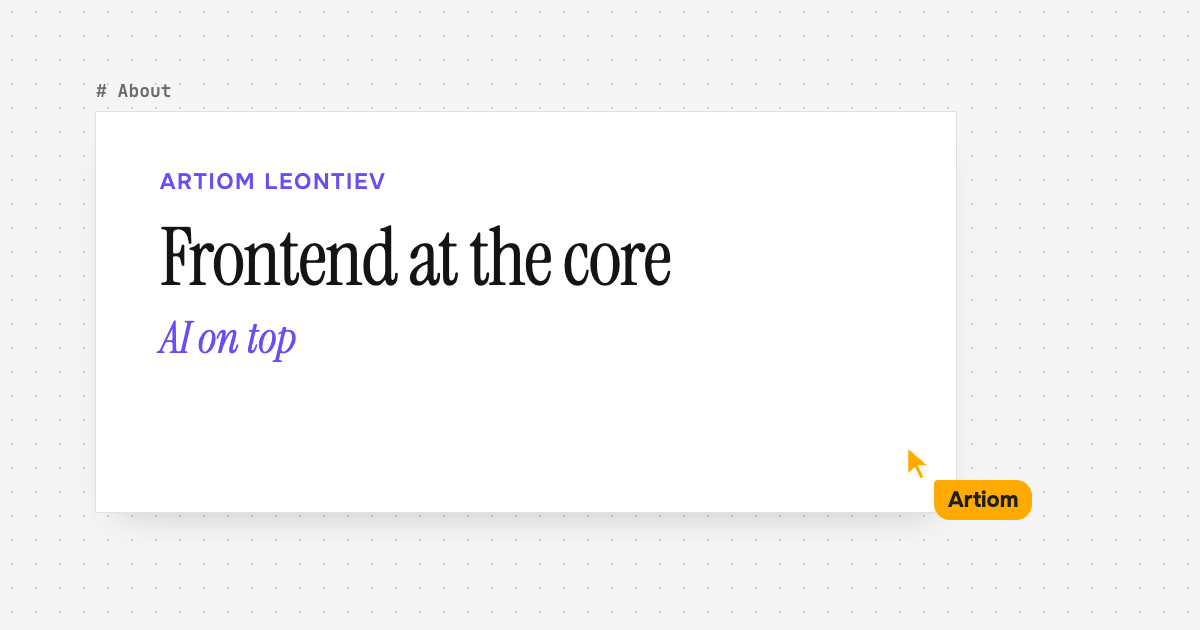
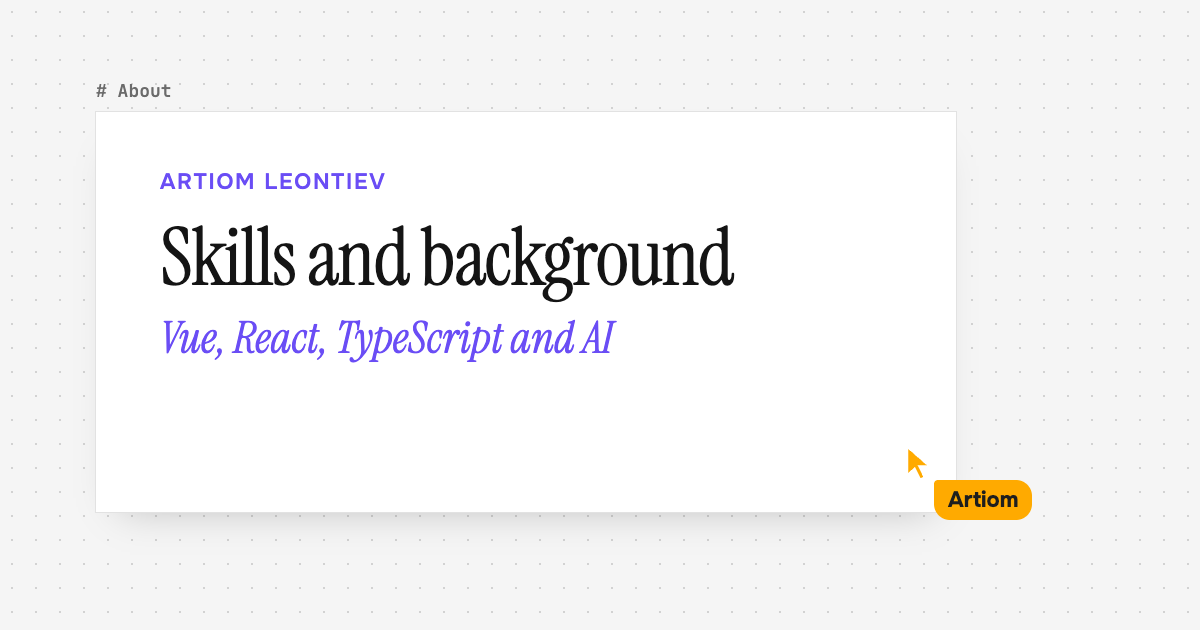
content: rewrite site copy in plain language
Drops slogan headings, filler and jargon lists, and stops the home intro
repeating the headline. The home intro, About bio and title, Experience and
Projects intros, Experience bullets, canvas comments and page descriptions
now say the same facts in plain sentences. Regenerates the About social
image and syncs the spec and plan.

Changed region(s): [[0.1233, 0.3619, 0.6167, 0.4825], [0.1233, 0.5127, 0.5242, 0.573]]

diff --git a/src/content/experience.ts b/src/content/experience.ts
@@ -13,10 +13,10 @@ export const roles: Role[] = [
         title: "AI products and internal AI tooling",
         years: "2025 – present",
         points: [
-          "Took an AI case-study generator to production, cutting case studies from days of manual writing to minutes. Used by Sales and Marketing. Built the React app and co-built the RAG service (Azure OpenAI).",
+          "Took an AI case-study generator to production. Sales and Marketing now get a case study in minutes instead of days. Built the React app and co-built the RAG service (Azure OpenAI).",
           "Built and self-hosted an MCP server that gives Claude Code and GitHub Copilot access to the company's agent-skill library. Load-tested it to 100 concurrent users at about 70 ms median latency.",
           "Wrote reusable Claude Code and Copilot agent skills for engineering teams, including a code-review skill that has to cite evidence for every finding.",
-          "Built the pull-request review for an AI-assisted project-delivery platform (changed files, side-by-side diffs, comment threads, approvals) and hardened its flow for accepting AI-drafted changes (React, TypeScript).",
+          "Built the pull-request review screens for an AI-assisted project-delivery platform: changed files, side-by-side diffs, comment threads and approvals (React, TypeScript).",
         ],
       },
       {
@@ -25,7 +25,7 @@ export const roles: Role[] = [
         years: "2025 – 2026",
         points: [
           "Designed a React 19 micro-frontend architecture (Module Federation) with a shared design system, role-based access and a typed API client, and built the core compliance workflows.",
-          "Introduced AI-assisted delivery to the team: Claude Code custom commands for end-to-end testing and code review, plus an agent-driven story and QA workflow (BMAD).",
+          "Got the team using AI day to day: Claude Code commands for end-to-end tests and code review, and an agent workflow (BMAD) for writing stories and QA.",
         ],
       },
       {
@@ -33,7 +33,7 @@ export const roles: Role[] = [
         title: "Frontend lead, occupational-health platform",
         years: "2023 – 2025",
         points: [
-          "Designed a Vue 3 + Vite micro-frontend architecture from the ground up, with a configurable dynamic-form engine. The platform passed a WCAG 2.1 AA accessibility audit.",
+          "Designed the Vue 3 and Vite micro-frontend architecture, including an engine that builds forms from configuration. The platform passed a WCAG 2.1 AA accessibility audit.",
           "Managed and mentored 4 developers, and ran code reviews, internal trainings and hiring interviews.",
         ],
       },
@@ -49,9 +49,9 @@ export const roles: Role[] = [
     engagements: [],
     points: [
       "Rebuilt a fertility-clinic platform's client app in Vue 3 and automated its kit-processing and shipping workflows, cutting manual paperwork by 50% and improving client retention by 20%.",
-      "Built a multi-site Nuxt job-board builder with per-site DNS mapping, whose server-side rendering and SEO work raised the SEO score by 30%.",
-      "Led a 2-developer team building a copywriting tool that generated articles through content-generation APIs, with Stripe payments.",
-      "Delivered web applications (Vue.js, Laravel, MySQL) for corporate clients in the USA, UK and the Netherlands.",
+      "Built a Nuxt job-board builder that runs many sites, each on its own domain. Server-side rendering and SEO work raised its SEO score by 30%.",
+      "Led a team of 2 building a tool that writes articles automatically, with paid plans through Stripe.",
+      "Built web apps in Vue.js, Laravel and MySQL for companies in the USA, the UK and the Netherlands.",
     ],
   },
 ];

diff --git a/src/seo/routes.ts b/src/seo/routes.ts
@@ -17,7 +17,7 @@ export const ROUTES: RouteMeta[] = [
     id: "home",
     path: "/",
     title: "Artiom Leontiev · Senior Frontend Engineer, AI-powered apps",
-    description: "Senior frontend engineer in Cluj-Napoca building AI-powered web apps with React and Vue: LLM integrations, RAG, agents and MCP servers.",
+    description: "Senior frontend engineer in Cluj-Napoca, Romania. I build web apps in React and Vue, and since 2025 mostly AI products with LLMs, RAG, agents and MCP servers.",
     image: "/og/home.png",
     imageAlt: "Artiom Leontiev, Senior Frontend Engineer, AI-powered applications",
   },
@@ -25,7 +25,7 @@ export const ROUTES: RouteMeta[] = [
     id: "projects",
     path: "/projects",
     title: "Projects · Artiom Leontiev",
-    description: "Side projects including Klipsy and Council, plus client work in AI tooling, micro-frontends and accessible healthcare platforms.",
+    description: "Side projects Klipsy, Council and AskManu, plus client work on AI tools and on compliance and healthcare platforms.",
     image: "/og/projects.png",
     imageAlt: "Projects by Artiom Leontiev",
   },
@@ -33,7 +33,7 @@ export const ROUTES: RouteMeta[] = [
     id: "experience",
     path: "/experience",
     title: "Experience · Artiom Leontiev",
-    description: "7+ years at Amdaris and BinarCode: AI products, frontend leadership on micro-frontend platforms, and full-stack Vue and Laravel work.",
+    description: "Senior frontend engineer at Amdaris since 2022, full-stack at BinarCode before that. Frontend lead on two large platforms, and AI products since 2025.",
     image: "/og/experience.png",
     imageAlt: "Experience of Artiom Leontiev",
   },
@@ -41,7 +41,7 @@ export const ROUTES: RouteMeta[] = [
     id: "about",
     path: "/about",
     title: "About · Artiom Leontiev",
-    description: "Skills, certifications and background: Vue, React, TypeScript, AI engineering with Claude and OpenAI, accessibility and web performance.",
+    description: "Skills, certifications and education: Vue, React and TypeScript, AI work with Claude, OpenAI and Gemini, accessibility and web performance.",
     image: "/og/about.png",
     imageAlt: "About Artiom Leontiev",
   },
@@ -49,7 +49,7 @@ export const ROUTES: RouteMeta[] = [
     id: "contact",
     path: "/contact",
     title: "Contact · Artiom Leontiev",
-    description: "Get in touch with Artiom Leontiev about frontend architecture, React and Vue work, or AI product engineering. Based in Cluj-Napoca, Romania.",
+    description: "Email Artiom Leontiev about a frontend or AI role, or a React or Vue project. Based in Cluj-Napoca, Romania.",
     image: "/og/contact.png",
     imageAlt: "Contact Artiom Leontiev",
   },

diff --git a/src/content/profile.ts b/src/content/profile.ts
@@ -8,11 +8,11 @@ export const profile = {
   linkedin: "https://www.linkedin.com/in/artiomleo/",
   cvUrl: "https://drive.google.com/file/d/1c296pwoO0QAl2fmsOOMBiI6i6DjtpRws/view?usp=sharing",
   headline: { lead: "builds web products,", accent: "and the AI behind them." },
-  lede: "7+ years of Vue and React, and since 2025 the AI layer behind them: LLM integrations, RAG, agents and MCP servers. Based in Cluj-Napoca, Romania.",
-  currently: ["AI products and internal AI tooling at Amdaris", "Building Klipsy on the side"],
+  lede: "I've built web apps in Vue and React for 7+ years. Since 2025 most of my work has been AI products: LLM features, RAG search, agents, and MCP servers for Claude and ChatGPT. Based in Cluj-Napoca, Romania.",
+  currently: ["Building AI products and internal tools at Amdaris", "Building Klipsy, an AI social media app, on the side"],
   bio: [
-    "I'm a senior frontend engineer with 7+ years of building web products in Vue and React. Since 2025 I've focused on AI-powered applications: LLM integrations, RAG, AI agents, and MCP servers for Claude and ChatGPT.",
-    "I lead frontend architecture, including micro-frontends, design systems and accessibility, and I work AI-first every day with Claude Code and agent workflows. Frontend is my core, and I build the AI and API layers a product needs, with working knowledge of backend frameworks.",
+    "I'm a senior frontend engineer in Cluj-Napoca. I started as a full-stack developer at BinarCode, building Vue and Laravel apps for clients, then moved to Amdaris, where I've led frontend teams on large healthcare and compliance platforms.",
+    "Since 2025 I've mostly built AI products: a case-study generator, an MCP server for coding agents, and, in my own time, Klipsy and Council. I use Claude Code every day, and I'm comfortable working in the backend when a feature needs it.",
   ],
   portrait: {
     avif: "/images/portrait.avif",

diff --git a/src/content/annotations.ts b/src/content/annotations.ts
@@ -6,11 +6,11 @@ export type FrameNote = { sticky?: string; comment?: { target: string; text: str
 export const FRAME_NOTES: Record<FrameId, FrameNote> = {
   home: {
     sticky: "Case studies: days of writing, down to minutes",
-    comment: { target: "hero-lede", text: "Since 2025: RAG, agents and MCP servers in production" },
+    comment: { target: "hero-lede", text: "RAG, agents and MCP servers, shipped since 2025" },
   },
   projects: {
     sticky: "Council ships in 8 languages",
-    comment: { target: "project-klipsy", text: "Per-model cost tracking fixed a 37× overstatement" },
+    comment: { target: "project-klipsy", text: "Cost tracking found cheap-model costs overstated 37×" },
   },
   experience: {
     sticky: "Mentored 4 developers",

diff --git a/src/content/projects.ts b/src/content/projects.ts
@@ -7,7 +7,7 @@ export const sideProjects: SideProject[] = [
     tagline: "AI social content studio",
     years: "2026 – present",
     role: "Lead full-stack engineer",
-    summary: "Klipsy turns a brand's documents into a steady stream of social content: it writes text posts, designs image posts and makes faceless videos, then publishes them on a schedule.",
+    summary: "Klipsy makes social media content from a brand's documents: text posts, image posts and faceless videos, published on a schedule.",
     points: [
       "Creates posts for each platform in the brand's own voice.",
       "Schedules and publishes to TikTok, YouTube, Instagram, X and more from one calendar.",

diff --git a/scripts/og/og.html b/scripts/og/og.html
@@ -13,7 +13,7 @@
         home: ["Home", "Senior Frontend Engineer", "AI-powered applications"],
         projects: ["Projects", "Things I've built", "Klipsy, Council and client work"],
         experience: ["Experience", "Where I've worked", "Vue, React and AI products"],
-        about: ["About", "Frontend at the core", "AI on top"],
+        about: ["About", "Skills and background", "Vue, React, TypeScript and AI"],
         contact: ["Contact", "Let's talk", "contact@artiomleo.com"],
       };
       const id = new URLSearchParams(location.search).get("frame") ?? "home";

diff --git a/src/frames/Projects.tsx b/src/frames/Projects.tsx
@@ -12,7 +12,7 @@ export function Projects({ primary }: { primary: boolean }) {
         <p className="eyebrow">Projects</p>
         <FrameTitle>Things I've built</FrameTitle>
         <p className="frame-lede">
-          Side projects I own end to end, and client work I led or built. Client work is described without names.
+          Side projects first, then client work, which I describe without client names.
         </p>
       </header>
       <section className="projects-group" aria-labelledby="side-projects-title">

diff --git a/src/frames/Experience.tsx b/src/frames/Experience.tsx
@@ -9,7 +9,7 @@ export function Experience({ primary }: { primary: boolean }) {
         <p className="eyebrow">Experience</p>
         <FrameTitle>Where I've worked</FrameTitle>
         <p className="frame-lede">
-          Frontend architecture and team leadership on micro-frontend platforms, and since 2025, AI products.
+          I've led frontend teams on large Vue and React platforms, and since 2025 I've mostly built AI products.
         </p>
       </header>
       <ol className="roles" role="list">

diff --git a/src/frames/About.tsx b/src/frames/About.tsx
@@ -10,7 +10,7 @@ export function About({ primary }: { primary: boolean }) {
     <Frame id="about" primary={primary}>
       <header className="frame-head">
         <p className="eyebrow">About</p>
-        <FrameTitle>Frontend at the core, AI on top</FrameTitle>
+        <FrameTitle>Skills and background</FrameTitle>
       </header>
       <div className="about-intro">
         <picture className="about-portrait">

diff --git a/docs/superpowers/plans/2026-10-23-canvas-redesign.md b/docs/superpowers/plans/2026-10-23-canvas-redesign.md
@@ -422,11 +422,11 @@ export const profile = {
   linkedin: "https://www.linkedin.com/in/artiomleo/",
   cvUrl: "https://drive.google.com/file/d/1c296pwoO0QAl2fmsOOMBiI6i6DjtpRws/view?usp=sharing",
   headline: { lead: "builds web products,", accent: "and the AI behind them." },
-  lede: "7+ years of Vue and React, and since 2025 the AI layer behind them: LLM integrations, RAG, agents and MCP servers. Based in Cluj-Napoca, Romania.",
-  currently: ["AI products and internal AI tooling at Amdaris", "Building Klipsy on the side"],
+  lede: "I've built web apps in Vue and React for 7+ years. Since 2025 most of my work has been AI products: LLM features, RAG search, agents, and MCP servers for Claude and ChatGPT. Based in Cluj-Napoca, Romania.",
+  currently: ["Building AI products and internal tools at Amdaris", "Building Klipsy, an AI social media app, on the side"],
   bio: [
-    "I'm a senior frontend engineer with 7+ years of building web products in Vue and React. Since 2025 I've focused on AI-powered applications: LLM integrations, RAG, AI agents, and MCP servers for Claude and ChatGPT.",
-    "I lead frontend architecture, including micro-frontends, design systems and accessibility, and I work AI-first every day with Claude Code and agent workflows. Frontend is my core, and I build the AI and API layers a product needs, with working knowledge of backend frameworks.",
+    "I'm a senior frontend engineer in Cluj-Napoca. I started as a full-stack developer at BinarCode, building Vue and Laravel apps for clients, then moved to Amdaris, where I've led frontend teams on large healthcare and compliance platforms.",
+    "Since 2025 I've mostly built AI products: a case-study generator, an MCP server for coding agents, and, in my own time, Klipsy and Council. I use Claude Code every day, and I'm comfortable working in the backend when a feature needs it.",
   ],
   portrait: {
     avif: "/images/portrait.avif",
@@ -456,10 +456,10 @@ export const roles: Role[] = [
         title: "AI products and internal AI tooling",
         years: "2025 – present",
         points: [
-          "Took an AI case-study generator to production, cutting case studies from days of manual writing to minutes. Used by Sales and Marketing. Built the React app and co-built the RAG service (Azure OpenAI).",
+          "Took an AI case-study generator to production. Sales and Marketing now get a case study in minutes instead of days. Built the React app and co-built the RAG service (Azure OpenAI).",
           "Built and self-hosted an MCP server that gives Claude Code and GitHub Copilot access to the company's agent-skill library. Load-tested it to 100 concurrent users at about 70 ms median latency.",
           "Wrote reusable Claude Code and Copilot agent skills for engineering teams, including a code-review skill that has to cite evidence for every finding.",
-          "Built the pull-request review for an AI-assisted project-delivery platform (changed files, side-by-side diffs, comment threads, approvals) and hardened its flow for accepting AI-drafted changes (React, TypeScript).",
+          "Built the pull-request review screens for an AI-assisted project-delivery platform: changed files, side-by-side diffs, comment threads and approvals (React, TypeScript).",
         ],
       },
       {
@@ -468,7 +468,7 @@ export const roles: Role[] = [
         years: "2025 – 2026",
         points: [
           "Designed a React 19 micro-frontend architecture (Module Federation) with a shared design system, role-based access and a typed API client, and built the core compliance workflows.",
-          "Introduced AI-assisted delivery to the team: Claude Code custom commands for end-to-end testing and code review, plus an agent-driven story and QA workflow (BMAD).",
+          "Got the team using AI day to day: Claude Code commands for end-to-end tests and code review, and an agent workflow (BMAD) for writing stories and QA.",
         ],
       },
       {
@@ -476,7 +476,7 @@ export const roles: Role[] = [
         title: "Frontend lead, occupational-health platform",
         years: "2023 – 2025",
         points: [
-          "Designed a Vue 3 + Vite micro-frontend architecture from the ground up, with a configurable dynamic-form engine. The platform passed a WCAG 2.1 AA accessibility audit.",
+          "Designed the Vue 3 and Vite micro-frontend architecture, including an engine that builds forms from configuration. The platform passed a WCAG 2.1 AA accessibility audit.",
           "Managed and mentored 4 developers, and ran code reviews, internal trainings and hiring interviews.",
         ],
       },
@@ -492,9 +492,9 @@ export const roles: Role[] = [
     engagements: [],
     points: [
       "Rebuilt a fertility-clinic platform's client app in Vue 3 and automated its kit-processing and shipping workflows, cutting manual paperwork by 50% and improving client retention by 20%.",
-      "Built a multi-site Nuxt job-board builder with per-site DNS mapping, whose server-side rendering and SEO work raised the SEO score by 30%.",
-      "Led a 2-developer team building a copywriting tool that generated articles through content-generation APIs, with Stripe payments.",
-      "Delivered web applications (Vue.js, Laravel, MySQL) for corporate clients in the USA, UK and the Netherlands.",
+      "Built a Nuxt job-board builder that runs many sites, each on its own domain. Server-side rendering and SEO work raised its SEO score by 30%.",
+      "Led a team of 2 building a tool that writes articles automatically, with paid plans through Stripe.",
+      "Built web apps in Vue.js, Laravel and MySQL for companies in the USA, the UK and the Netherlands.",
     ],
   },
 ];
@@ -562,7 +562,7 @@ export const sideProjects: SideProject[] = [
     tagline: "AI social content studio",
     years: "2026 – present",
     role: "Lead full-stack engineer",
-    summary: "Klipsy turns a brand's documents into a steady stream of social content: it writes text posts, designs image posts and makes faceless videos, then publishes them on a schedule.",
+    summary: "Klipsy makes social media content from a brand's documents: text posts, image posts and faceless videos, published on a schedule.",
     points: [
       "Creates posts for each platform in the brand's own voice.",
       "Schedules and publishes to TikTok, YouTube, Instagram, X and more from one calendar.",
@@ -790,11 +790,11 @@ export type FrameNote = { sticky?: string; comment?: { target: string; text: str
 export const FRAME_NOTES: Record<FrameId, FrameNote> = {
   home: {
     sticky: "Case studies: days of writing, down to minutes",
-    comment: { target: "hero-lede", text: "Since 2025: RAG, agents and MCP servers in production" },
+    comment: { target: "hero-lede", text: "RAG, agents and MCP servers, shipped since 2025" },
   },
   projects: {
     sticky: "Council ships in 8 languages",
-    comment: { target: "project-klipsy", text: "Per-model cost tracking fixed a 37× overstatement" },
+    comment: { target: "project-klipsy", text: "Cost tracking found cheap-model costs overstated 37×" },
   },
   experience: {
     sticky: "Mentored 4 developers",
@@ -1834,7 +1834,7 @@ export function Projects({ primary }: { primary: boolean }) {
         <p className="eyebrow">Projects</p>
         <FrameTitle>Things I've built</FrameTitle>
         <p className="frame-lede">
-          Side projects I own end to end, and client work I led or built. Client work is described without names.
+          Side projects first, then client work, which I describe without client names.
         </p>
       </header>
       <section className="projects-group" aria-labelledby="side-projects-title">
@@ -2089,7 +2089,7 @@ export function Experience({ primary }: { primary: boolean }) {
         <p className="eyebrow">Experience</p>
         <FrameTitle>Where I've worked</FrameTitle>
         <p className="frame-lede">
-          Frontend architecture and team leadership on micro-frontend platforms, and since 2025, AI products.
+          I've led frontend teams on large Vue and React platforms, and since 2025 I've mostly built AI products.
         </p>
       </header>
       <ol className="roles" role="list">
@@ -2159,7 +2159,7 @@ export function About({ primary }: { primary: boolean }) {
     <Frame id="about" primary={primary}>
       <header className="frame-head">
         <p className="eyebrow">About</p>
-        <FrameTitle>Frontend at the core, AI on top</FrameTitle>
+        <FrameTitle>Skills and background</FrameTitle>
       </header>
       <div className="about-intro">
         <picture className="about-portrait">
@@ -2985,7 +2985,7 @@ export const ROUTES: RouteMeta[] = [
     id: "home",
     path: "/",
     title: "Artiom Leontiev · Senior Frontend Engineer, AI-powered apps",
-    description: "Senior frontend engineer in Cluj-Napoca building AI-powered web apps with React and Vue: LLM integrations, RAG, agents and MCP servers.",
+    description: "Senior frontend engineer in Cluj-Napoca, Romania. I build web apps in React and Vue, and since 2025 mostly AI products with LLMs, RAG, agents and MCP servers.",
     image: "/og/home.png",
     imageAlt: "Artiom Leontiev, Senior Frontend Engineer, AI-powered applications",
   },
@@ -2993,7 +2993,7 @@ export const ROUTES: RouteMeta[] = [
     id: "projects",
     path: "/projects",
     title: "Projects · Artiom Leontiev",
-    description: "Side projects including Klipsy and Council, plus client work in AI tooling, micro-frontends and accessible healthcare platforms.",
+    description: "Side projects Klipsy, Council and AskManu, plus client work on AI tools and on compliance and healthcare platforms.",
     image: "/og/projects.png",
     imageAlt: "Projects by Artiom Leontiev",
   },
@@ -3001,7 +3001,7 @@ export const ROUTES: RouteMeta[] = [
     id: "experience",
     path: "/experience",
     title: "Experience · Artiom Leontiev",
-    description: "7+ years at Amdaris and BinarCode: AI products, frontend leadership on micro-frontend platforms, and full-stack Vue and Laravel work.",
+    description: "Senior frontend engineer at Amdaris since 2022, full-stack at BinarCode before that. Frontend lead on two large platforms, and AI products since 2025.",
     image: "/og/experience.png",
     imageAlt: "Experience of Artiom Leontiev",
   },
@@ -3009,7 +3009,7 @@ export const ROUTES: RouteMeta[] = [
     id: "about",
     path: "/about",
     title: "About · Artiom Leontiev",
-    description: "Skills, certifications and background: Vue, React, TypeScript, AI engineering with Claude and OpenAI, accessibility and web performance.",
+    description: "Skills, certifications and education: Vue, React and TypeScript, AI work with Claude, OpenAI and Gemini, accessibility and web performance.",
     image: "/og/about.png",
     imageAlt: "About Artiom Leontiev",
   },
@@ -3017,7 +3017,7 @@ export const ROUTES: RouteMeta[] = [
     id: "contact",
     path: "/contact",
     title: "Contact · Artiom Leontiev",
-    description: "Get in touch with Artiom Leontiev about frontend architecture, React and Vue work, or AI product engineering. Based in Cluj-Napoca, Romania.",
+    description: "Email Artiom Leontiev about a frontend or AI role, or a React or Vue project. Based in Cluj-Napoca, Romania.",
     image: "/og/contact.png",
     imageAlt: "Contact Artiom Leontiev",
   },
@@ -7122,7 +7122,7 @@ git commit -m "feat: add portrait and side-project screenshots"
         home: ["Home", "Senior Frontend Engineer", "AI-powered applications"],
         projects: ["Projects", "Things I've built", "Klipsy, Council and client work"],
         experience: ["Experience", "Where I've worked", "Vue, React and AI products"],
-        about: ["About", "Frontend at the core", "AI on top"],
+        about: ["About", "Skills and background", "Vue, React, TypeScript and AI"],
         contact: ["Contact", "Let's talk", "contact@artiomleo.com"],
       };
       const id = new URLSearchParams(location.search).get("frame") ?? "home";

diff --git a/docs/superpowers/specs/2026-10-23-canvas-redesign-design.md b/docs/superpowers/specs/2026-10-23-canvas-redesign-design.md
@@ -35,8 +35,9 @@ Everything ships in one pull request from the `redesign/canvas` branch.
 - Name: Artiom Leontiev
 - Title: Senior Frontend Engineer · AI-powered applications
 - Headline (the home `h1`): "Artiom Leontiev builds web products, *and the AI behind them.*"
-- Lede: "7+ years of Vue and React, and since 2025 the AI layer behind them: LLM integrations, RAG,
-  agents and MCP servers. Based in Cluj-Napoca, Romania."
+- Lede: "I've built web apps in Vue and React for 7+ years. Since 2025 most of my work has been AI
+  products: LLM features, RAG search, agents, and MCP servers for Claude and ChatGPT. Based in
+  Cluj-Napoca, Romania."
 - Experience length: "7+ years" (the current site says 6+).
 - Hero actions: "See projects" (to `/projects`) and "Get in touch" (to `/contact`).
 
@@ -45,25 +46,23 @@ Everything ships in one pull request from the `redesign/canvas` branch.
 1. **Senior Frontend Engineer · Amdaris · Cluj-Napoca · 2022 to present**, with three nested
    engagements:
    - *AI products and internal AI tooling, 2025 to present.*
-     - Took an AI case-study generator to production. Case studies went from days of manual writing
-       to minutes, and the tool is used by Sales and Marketing. Built the React app and co-built the
-       RAG service (Azure OpenAI).
+     - Took an AI case-study generator to production. Sales and Marketing now get a case study in
+       minutes instead of days. Built the React app and co-built the RAG service (Azure OpenAI).
      - Built and self-hosted an MCP server that gives Claude Code and GitHub Copilot access to the
        company's agent-skill library. Load-tested it to 100 concurrent users at about 70 ms median
        latency.
      - Wrote reusable Claude Code and Copilot agent skills, including a code-review skill that must
        cite evidence for every finding.
-     - Built the pull-request review for an AI-assisted project-delivery platform (changed files,
-       side-by-side diffs, comment threads, approvals) and hardened its flow for accepting
-       AI-drafted changes.
+     - Built the pull-request review screens for an AI-assisted project-delivery platform: changed
+       files, side-by-side diffs, comment threads and approvals.
    - *Frontend lead, sustainability-compliance SaaS, 2025 to 2026.*
      - Designed a React 19 micro-frontend architecture (Module Federation) with a shared design
        system, role-based access and a typed API client.
-     - Brought AI-assisted delivery to the team: Claude Code commands for end-to-end testing and
-       code review, and an agent-driven story and QA workflow (BMAD).
+     - Got the team using AI day to day: Claude Code commands for end-to-end tests and code review,
+       and an agent workflow (BMAD) for writing stories and QA.
    - *Frontend lead, occupational-health platform, 2023 to 2025.*
-     - Designed a Vue 3 and Vite micro-frontend architecture with a configurable dynamic-form
-       engine. The platform passed a WCAG 2.1 AA audit.
+     - Designed the Vue 3 and Vite micro-frontend architecture, including an engine that builds
+       forms from configuration. The platform passed a WCAG 2.1 AA audit.
      - Managed and mentored 4 developers, and ran code reviews, trainings and hiring interviews.
 2. **Full-Stack Engineer · BinarCode · Cluj-Napoca · 2019 to 2022.** The four CV bullets: the
    fertility-clinic platform, the job-board builder, the copywriting tool, and Vue, Laravel and
@@ -378,11 +377,11 @@ Extended files download for this content, with `font-display: swap`. The hero di
 
 | Route | Title | Description |
 | --- | --- | --- |
-| `/` | Artiom Leontiev · Senior Frontend Engineer, AI-powered apps | Senior frontend engineer in Cluj-Napoca building AI-powered web apps with React and Vue: LLM integrations, RAG, agents and MCP servers. |
-| `/projects` | Projects · Artiom Leontiev | Side projects including Klipsy and Council, plus client work in AI tooling, micro-frontends and accessible healthcare platforms. |
-| `/experience` | Experience · Artiom Leontiev | 7+ years at Amdaris and BinarCode: AI products, frontend leadership on micro-frontend platforms, and full-stack Vue and Laravel work. |
-| `/about` | About · Artiom Leontiev | Skills, certifications and background: Vue, React, TypeScript, AI engineering with Claude and OpenAI, accessibility and web performance. |
-| `/contact` | Contact · Artiom Leontiev | Get in touch with Artiom Leontiev about frontend architecture, React and Vue work, or AI product engineering. Based in Cluj-Napoca, Romania. |
+| `/` | Artiom Leontiev · Senior Frontend Engineer, AI-powered apps | Senior frontend engineer in Cluj-Napoca, Romania. I build web apps in React and Vue, and since 2025 mostly AI products with LLMs, RAG, agents and MCP servers. |
+| `/projects` | Projects · Artiom Leontiev | Side projects Klipsy, Council and AskManu, plus client work on AI tools and on compliance and healthcare platforms. |
+| `/experience` | Experience · Artiom Leontiev | Senior frontend engineer at Amdaris since 2022, full-stack at BinarCode before that. Frontend lead on two large platforms, and AI products since 2025. |
+| `/about` | About · Artiom Leontiev | Skills, certifications and education: Vue, React and TypeScript, AI work with Claude, OpenAI and Gemini, accessibility and web performance. |
+| `/contact` | Contact · Artiom Leontiev | Email Artiom Leontiev about a frontend or AI role, or a React or Vue project. Based in Cluj-Napoca, Romania. |
 
 **OG images:** five static 1200×630 PNGs in `public/og/`. Each shows the name, the frame title and the
 amber "Artiom" demo cursor, in the site style.
